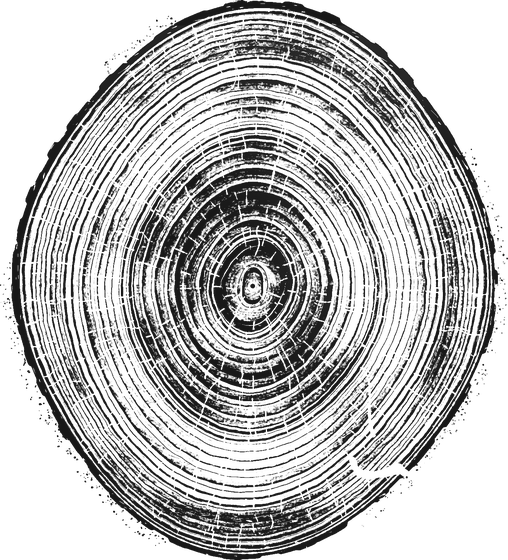
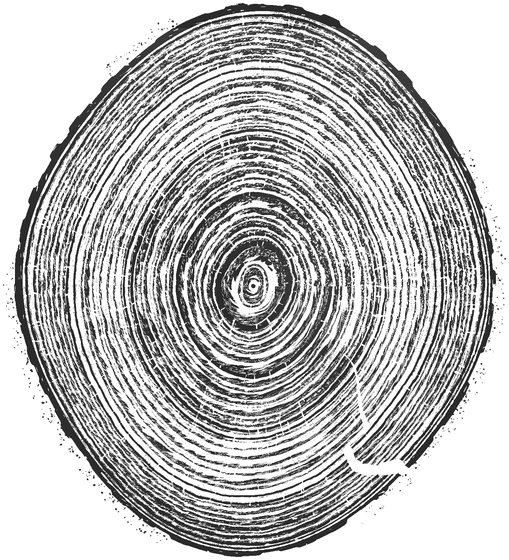
Press: relief-print look after the artist's prints — ragged latewood bands, bled earlywood, starved ink; checks from ring 20; slices re-pressed
Claude-Session: https://claude.ai/code/session_01WhGxUDQ2nhT1B8pKnZrdq5

diff --git a/src/rings/press.ts b/src/rings/press.ts
@@ -1711,11 +1711,11 @@ function drawPrint(v: View): void {
   g.strokeStyle = ink(0.95); g.lineWidth = 1 * px * Z; ringPath(v, bark, 0, K * 2); g.stroke();
   }
   // The checks: as a cut slice dries it splits. From the bark in toward the heart, a few cracks opening and
-  // running deeper as the years go on (from about the fortieth); and, older, from the heart out, two to four
+  // running deeper as the years go on (from about the twentieth); and, older, from the heart out, two to four
   // splitting the slice into wedges (from about the ninetieth). Wood parts along its years as readily as across
   // them, so a crack now and then runs a little way along a ring before going on: a step. Widest where it began,
   // jagged at its edges. (The practice only: they belong to an old slice.)
-  if (GROWN && n >= 40) {
+  if (GROWN && n >= 20) {
     const bark = barkOf(n - 1), T = barkCss(v) * px;
     // (A crack's way, as (angle, mm), `fromHeart` outward or else inward from the bark, to `deep` of the radius;
     // `wide` px where it began, a hairline at its end. Stroked a short piece at a time, each as wide as the crack
@@ -1750,9 +1750,9 @@ function drawPrint(v: View): void {
       }
     };
     g.save(); g.globalCompositeOperation = 'destination-out'; g.strokeStyle = '#000'; g.lineCap = 'round'; g.lineJoin = 'round';
-    const count = Math.min(5, 1 + Math.floor((n - 40) / 70));
+    const count = Math.min(5, 1 + Math.floor((n - 20) / 70));
     for (let c = 0; c < count; c++) {
-      const q = tree.seed * 0.0031 + c * 7.71, age = n - 40 - c * 70;
+      const q = tree.seed * 0.0031 + c * 7.71, age = n - 20 - c * 70;
       const deep = Math.min(0.85, 0.2 + 0.0045 * age + 0.3 * h1(q + 1.3));
       const wide = Math.min(0.03 * scr(Rb), 9 * px * Z) * (0.5 + 0.7 * h1(q + 2.9)) * Math.min(1, 0.35 + age / 90);
       crack(q, h1(q) * TAU, deep, wide, false);
@@ -1874,21 +1874,21 @@ function vnoise(x: number, y: number): number {
 type Anatomy = { early: number; late: number; share: number; edge: number; rays: number; rayW: number; pores: number; poreR: number; poreEarly: number; fibre: number; mottle: number; sharp?: number };
 const ANATOMY: Partial<Record<Kind, Anatomy>> = {
   // Cherry: semi-diffuse, its pores a little crowded at each year's start, fine rays, a clear but soft edge.
-  cherry: { early: 0.47, late: 1.0, share: 0.3, edge: 1.05, rays: 0.9, rayW: 0.42, pores: 0.11, poreR: 0.5, poreEarly: 0.6, fibre: 0.5, mottle: 0 },
+  cherry: { early: 0.47, late: 1.0, share: 0.42, edge: 1.05, rays: 0.9, rayW: 0.42, pores: 0.11, poreR: 0.5, poreEarly: 0.6, fibre: 0.5, mottle: 0 },
   // Maple: even and close, light, each year closed by a thin dark line; fine rays.
-  maple: { early: 0.43, late: 0.92, share: 0.14, edge: 1.04, rays: 1.1, rayW: 0.36, pores: 0.07, poreR: 0.38, poreEarly: 0.1, fibre: 0.45, mottle: 0 },
+  maple: { early: 0.43, late: 0.92, share: 0.32, edge: 1.04, rays: 1.1, rayW: 0.36, pores: 0.07, poreR: 0.38, poreEarly: 0.1, fibre: 0.45, mottle: 0 },
   // Birch: pale and plain, a faint edge, very fine pores; its rays too fine to see.
-  birch: { early: 0.39, late: 0.8, share: 0.1, edge: 0.95, rays: 0, rayW: 0, pores: 0.09, poreR: 0.32, poreEarly: 0, fibre: 0.5, mottle: 0 },
+  birch: { early: 0.39, late: 0.8, share: 0.28, edge: 0.95, rays: 0, rayW: 0, pores: 0.09, poreR: 0.32, poreEarly: 0, fibre: 0.5, mottle: 0 },
   // The conifers: soft pale earlywood darkening steadily into a firm latewood, ending sharp; no pores.
   pine: { early: 0.29, late: 1.05, share: 0.34, edge: 1.08, rays: 0, rayW: 0, pores: 0, poreR: 0, poreEarly: 0, fibre: 0.45, mottle: 0 },
-  redwood: { early: 0.36, late: 1.0, share: 0.26, edge: 1.04, rays: 0, rayW: 0, pores: 0, poreR: 0, poreEarly: 0, fibre: 0.55, mottle: 0 },
+  redwood: { early: 0.36, late: 1.0, share: 0.38, edge: 1.04, rays: 0, rayW: 0, pores: 0, poreR: 0, poreEarly: 0, fibre: 0.55, mottle: 0 },
   bristlecone: { early: 0.32, late: 1.05, share: 0.42, edge: 1.08, rays: 0, rayW: 0, pores: 0, poreR: 0, poreEarly: 0, fibre: 0.45, mottle: 0 },
   // Olive: dense, close and irregular, its figure a dark mottle wandering through the years.
-  olive: { early: 0.6, late: 0.96, share: 0.22, edge: 1.0, rays: 0.6, rayW: 0.3, pores: 0.05, poreR: 0.3, poreEarly: 0, fibre: 0.35, mottle: 0.45 },
+  olive: { early: 0.6, late: 0.96, share: 0.36, edge: 1.0, rays: 0.6, rayW: 0.3, pores: 0.05, poreR: 0.3, poreEarly: 0, fibre: 0.35, mottle: 0.45 },
   // Douglas fir: a pale, soft earlywood, then all at once a dark latewood: the boldest year of them all.
   fir: { early: 0.24, late: 1.15, share: 0.5, edge: 1.12, rays: 0, rayW: 0, pores: 0, poreR: 0, poreEarly: 0, fibre: 0.3, mottle: 0, sharp: 1.8 },
   // Juniper: fine and close, its latewood thin and its years irregular, a soft figure through them.
-  juniper: { early: 0.3, late: 1.0, share: 0.26, edge: 1.04, rays: 0, rayW: 0, pores: 0, poreR: 0, poreEarly: 0, fibre: 0.45, mottle: 0.25 },
+  juniper: { early: 0.3, late: 1.0, share: 0.36, edge: 1.04, rays: 0, rayW: 0, pores: 0, poreR: 0, poreEarly: 0, fibre: 0.45, mottle: 0.25 },
 };
 /**
  * How strongly each wood's rays print: oak's many and plain, a conifer's barely there.
@@ -2004,16 +2004,26 @@ function printYears(v: View, oak: Years | null): void {
   // with its rays, pores and real fibre; all in the slice's own px (`U`), so looked into they're the same,
   // larger, never a fresh scatter.)
   const an = oak ? null : ANATOMY[kind] ?? ANATOMY.cherry!, fib = wood.fibre[kind], U = px * Z, conifer = fam() === 'conifer', RAY = RAYS[kind] ?? 0;
-  const drawnInk = (i: number, a: number, r: number, across: number, heart: boolean, width: number, dx: number, dy: number): number => {
+  const drawnInk = (i: number, a: number, r: number, across: number, _heart: boolean, width: number, dx: number, dy: number): number => {
     const A = an!, rho = r / U;
     // The year: earlywood, a little deeper as it goes, then darkening into the latewood, ending sharp.
+    // (As a relief print takes it: the latewood a bold band of ink, its inner edge never ruled but wandering
+    // along the year, dry and ragged; the earlywood mostly the paper, the ink bleeding into it in blotches
+    // beside the band; and the band itself starved here and there to flecks of paper. As gpu.ts presses it.)
+    const along = a * rho, wd = Math.max(1e-3, width);
     const share = conifer ? Math.min(0.85, A.share * (0.6 + 0.8 * calmOf(i))) : A.share;
-    const t = Math.max(0, Math.min(1, (across - (1 - share)) / share));
-    let ink = A.early * (0.85 + 0.3 * across) + (A.late - A.early) * Math.pow(t, A.sharp ?? 1.4);
-    // (Its edge: a line a pixel or so wide at the slice's own size, darker than the latewood.)
-    // (Never more than a quarter of a fine year: its line is in proportion to it.)
-    const eW = Math.min(1.3 * U, 0.25 * width);
-    if (!heart && width > 0) ink = Math.max(ink, A.edge * smooth((across - (1 - eW / width)) / Math.max(1e-3, Math.min(0.8 * U, 0.15 * width) / width)));
+    const rag = 0.5 * (vnoise(along * 0.07 + i * 7.1, i * 3.3) - 0.5) + 0.3 * (vnoise(along * 0.3 + i * 2.3, i * 1.7 + 5) - 0.5) + 0.2 * (vnoise(along * 1.1 + i * 0.7, rho * 0.4) - 0.5);
+    const start = 1 - share * (1 + 1.4 * rag), soft = Math.max(0.035, (0.7 * U) / wd);
+    // (Its edge frayed finely, as dry ink tears at the grain.)
+    const fray = vnoise(along * 0.9 + i * 3.1, rho * 0.8) - 0.5 + 0.6 * (vnoise(along * 2.6 + i, rho * 2.2 + 3) - 0.5);
+    const band = smooth((across - start) / soft + 0.5 + (((1.6 * U) / wd) * fray) / soft * 0.5);
+    let ink = A.early * 0.35 * (0.8 + 0.4 * across) + (A.late * 1.08 - A.early * 0.35) * band;
+    // (Bled into the earlywood beside the band: blotches, thicker nearer it.)
+    const near = smooth((across - (start - 0.45)) / 0.45) * (1 - band);
+    ink += 0.95 * near * smooth((vnoise(along * 0.18 + i * 4.3, rho * 0.45 + i) - 0.42) / 0.16) * (0.6 + 0.4 * vnoise(along * 1.4, rho * 1.4 + i));
+    // (Starved inside the band: flecks and short streaks of paper; and finely all through it, the pores.)
+    ink *= 1 - 0.8 * band * smooth((vnoise(along * 1.1 + i * 9.7, rho * 1.9) - 0.68) / 0.08);
+    ink *= 1 - 0.7 * band * smooth((vnoise(along * 2.4 + i * 5.9, rho * 2.6 + 11) - 0.74) / 0.07);
     // The real fibre, streaking along the year.
     if (fib && A.fibre) ink *= 1 + A.fibre * 0.45 * (tile(fib, a * rho * 0.5, rho * 0.5) - 0.5) * 2;
     // (And the wood's own fine grain, finer than the scan holds: long thin streaks along the year, in the wood's
@@ -2096,7 +2106,8 @@ function printYears(v: View, oak: Years | null): void {
       }
       // The rays: the wood's fine radial lines, open to the paper, crossing every year, so the latewood prints
       // as a run of small bricks.
-      if (RAY && !heart) ink *= 1 - RAY * rayAt(a, r / U, RAY_RUN[kind]);
+      // (The drawn woods' rays fine and sparing, as a print shows them: the years' bands run on through them.)
+      if (RAY && !heart) ink *= 1 - RAY * (oak ? 1 : 0.55) * rayAt(a, r / U, RAY_RUN[kind]);
       const k = (y * w + x) * 4;
       d[k] = INK[0]; d[k + 1] = INK[1]; d[k + 2] = INK[2]; d[k + 3] = Math.round(255 * Math.min(1, ink));
     }

diff --git a/src/rings/gpu.ts b/src/rings/gpu.ts
@@ -72,11 +72,24 @@ float rayAt(float a, float rho) {
 }
 float drawnInk(int i, float a, float r, float across, bool heart, float width, float dx, float dy) {
   float rho = r / uU, fi = float(i);
+  // (As a relief print takes it: the latewood a bold band of ink, its inner edge never ruled but wandering
+  // along the year, dry and ragged; the earlywood mostly the paper, the ink bleeding into it in blotches
+  // beside the band; and the band itself starved here and there to flecks of paper.)
+  float along = a * rho, w = max(1e-3, width);
   float share = uConifer == 1 ? min(0.85, uShare * (0.6 + 0.8 * R(i, 11))) : uShare;
-  float t = clamp((across - (1. - share)) / share, 0., 1.);
-  float ink = uEarly * (0.85 + 0.3 * across) + (uLate - uEarly) * pow(t, uSharp);
-  float eW = min(1.3 * uU, 0.25 * width);
-  if (!heart && width > 0.) ink = max(ink, uEdge * sm((across - (1. - eW / width)) / max(1e-3, min(0.8 * uU, 0.15 * width) / width)));
+  float rag = 0.5 * (vnoise(along * 0.07 + fi * 7.1, fi * 3.3) - 0.5) + 0.3 * (vnoise(along * 0.3 + fi * 2.3, fi * 1.7 + 5.) - 0.5) + 0.2 * (vnoise(along * 1.1 + fi * 0.7, rho * 0.4) - 0.5);
+  float start = 1. - share * (1. + 1.4 * rag), soft = max(0.035, 0.7 * uU / w);
+  // (Its edge frayed finely, as dry ink tears at the grain: a pixel or two in and out, quickly along it.)
+  float fray = (vnoise(along * 0.9 + fi * 3.1, rho * 0.8) - 0.5) + 0.6 * (vnoise(along * 2.6 + fi, rho * 2.2 + 3.) - 0.5);
+  float band = sm((across - start) / soft + 0.5 + 1.6 * uU / w * fray / soft * 0.5);
+  float ink = uEarly * 0.35 * (0.8 + 0.4 * across) + (uLate * 1.08 - uEarly * 0.35) * band;
+  // (Bled into the earlywood beside the band: blotches, thicker nearer it.)
+  float near = sm((across - (start - 0.45)) / 0.45) * (1. - band);
+  ink += 0.95 * near * sm((vnoise(along * 0.18 + fi * 4.3, rho * 0.45 + fi) - 0.42) / 0.16) * (0.6 + 0.4 * vnoise(along * 1.4, rho * 1.4 + fi));
+  // (Starved inside the band: flecks and short streaks of paper along the grain.)
+  ink *= 1. - 0.8 * band * sm((vnoise(along * 1.1 + fi * 9.7, rho * 1.9) - 0.68) / 0.08);
+  // (And finely, all through it, the wood's own pores and grain as specks of paper.)
+  ink *= 1. - 0.7 * band * sm((vnoise(along * 2.4 + fi * 5.9, rho * 2.6 + 11.) - 0.74) / 0.07);
   if (uHasFib == 1 && uFibre > 0.) ink *= 1. + uFibre * 0.45 * (tileL(uFib, uFibW, uFibH, a * rho * 0.5, rho * 0.5) - 0.5) * 2.;
   ink *= 1. + 0.2 * (vnoise(rho * 1.6 + fi * 5.3, a * rho * 0.09) - 0.5) * 2. * (0.5 + 0.5 * vnoise(rho * 0.25, a * rho * 0.03 + 9.1));
   if (uMottle > 0.) ink *= 1. + uMottle * (vnoise(dx / (22. * uU) + 3.1, dy / (22. * uU) + 7.7) - 0.5) * 2.;
@@ -126,7 +139,8 @@ void main() {
     float cov = max(jo < 0 ? 0. : lineAt(jo, rad(jo, b, f) - r), ji < 0 ? 0. : lineAt(ji, r - rad(ji, b, f))) * (0.75 + 0.35 * vnoise(dx * 0.11 + float(i), dy * 0.11));
     if (cov > 0.) ink = max(ink, 0.95 * cov);
   }
-  if (uRay > 0. && !heart) ink *= 1. - uRay * rayAt(a, r / uU);
+  // (The drawn woods' rays fine and sparing, as a print shows them: the years' bands run on through them.)
+  if (uRay > 0. && !heart) ink *= 1. - uRay * (uOak == 1 ? 1. : 0.55) * rayAt(a, r / uU);
   float al = floor(255. * clamp(ink, 0., 1.) + 0.5) / 255.;
   o = vec4(uInkRGB * al, al);
 }

diff --git a/RINGS-HISTORY.md b/RINGS-HISTORY.md
@@ -223,3 +223,11 @@ At about 5× zoom, the time to press the whole screen fell to roughly a quarter 
 **October 18: no growing out; knots pressed at once.**
 - The year no longer grows out from the old bark over seven seconds once a loop is closed. The new ring is simply there where it settled, the print as it was fading out over it.
 - The print's key now includes its knots and burls. One begun or grown is always pressed in straight away, never only once the slice is looked into.
+
+**October 18: the relief-print look.** The drawn woods' years were redrawn after the artist's own prints, side by side with the photographs.
+- Each latewood is a bold band of ink, its inner edge never ruled: it wanders along the year and frays finely at the grain.
+- Beside it the earlywood is mostly paper, with ink bled into it in blotches. Inside it the band is starved here and there to flecks and short streaks of paper, and finely all through it to the wood's pores.
+- The rays are fainter in the drawn woods, so the years' bands run on through them.
+- The latewood share is wider for cherry, maple, birch, olive, juniper and redwood.
+- Checks open in from the bark from about the twentieth ring, not the fortieth.
+- The CPU press matches the graphics chip's, and the choosing slices were pressed again in the new look.
